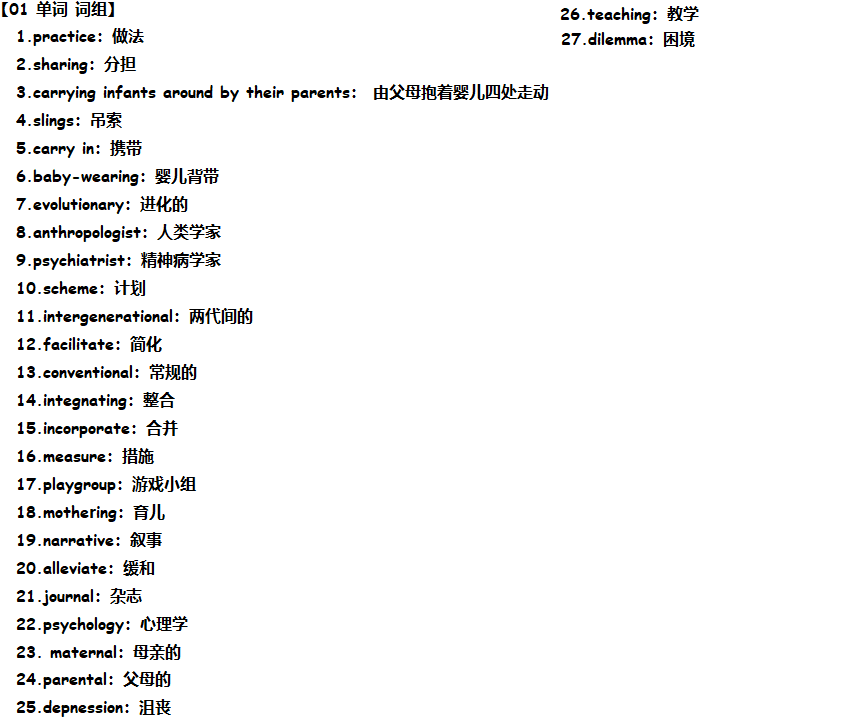
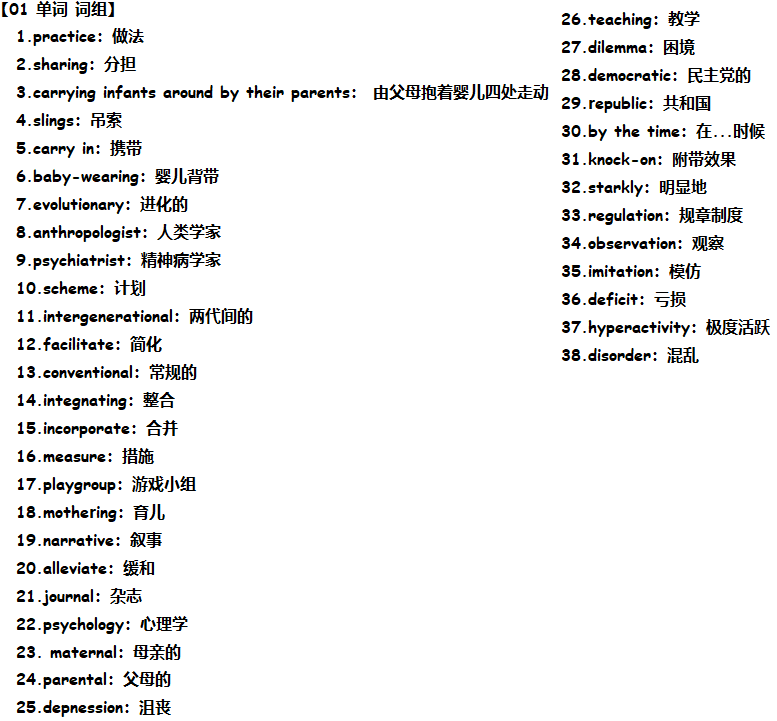
251017 D61

Changed region(s): [[0.0, 0.0, 0.9884, 1.0]]

diff --git a/01 真题/01 24 40’ = 10’ + 30‘/02 阅读理解 30‘ = 15 × 2‘  T21-35/02 Text 2 10' = 5 × 2’ T26-30/01 251015 D63/02 Doc.md b/01 真题/01 24 40’ = 10’ + 30‘/02 阅读理解 30‘ = 15 × 2‘  T21-35/02 Text 2 10' = 5 × 2’ T26-30/01 251015 D63/02 Doc.md
@@ -1,6 +1,6 @@
 # 01 单词 词组
 
-
+<img src="https://cvp.oss-cn-shanghai.aliyuncs.com/202510170815288.png" alt="image-20251017081544179" style="zoom:50%;" />
 
 
 
